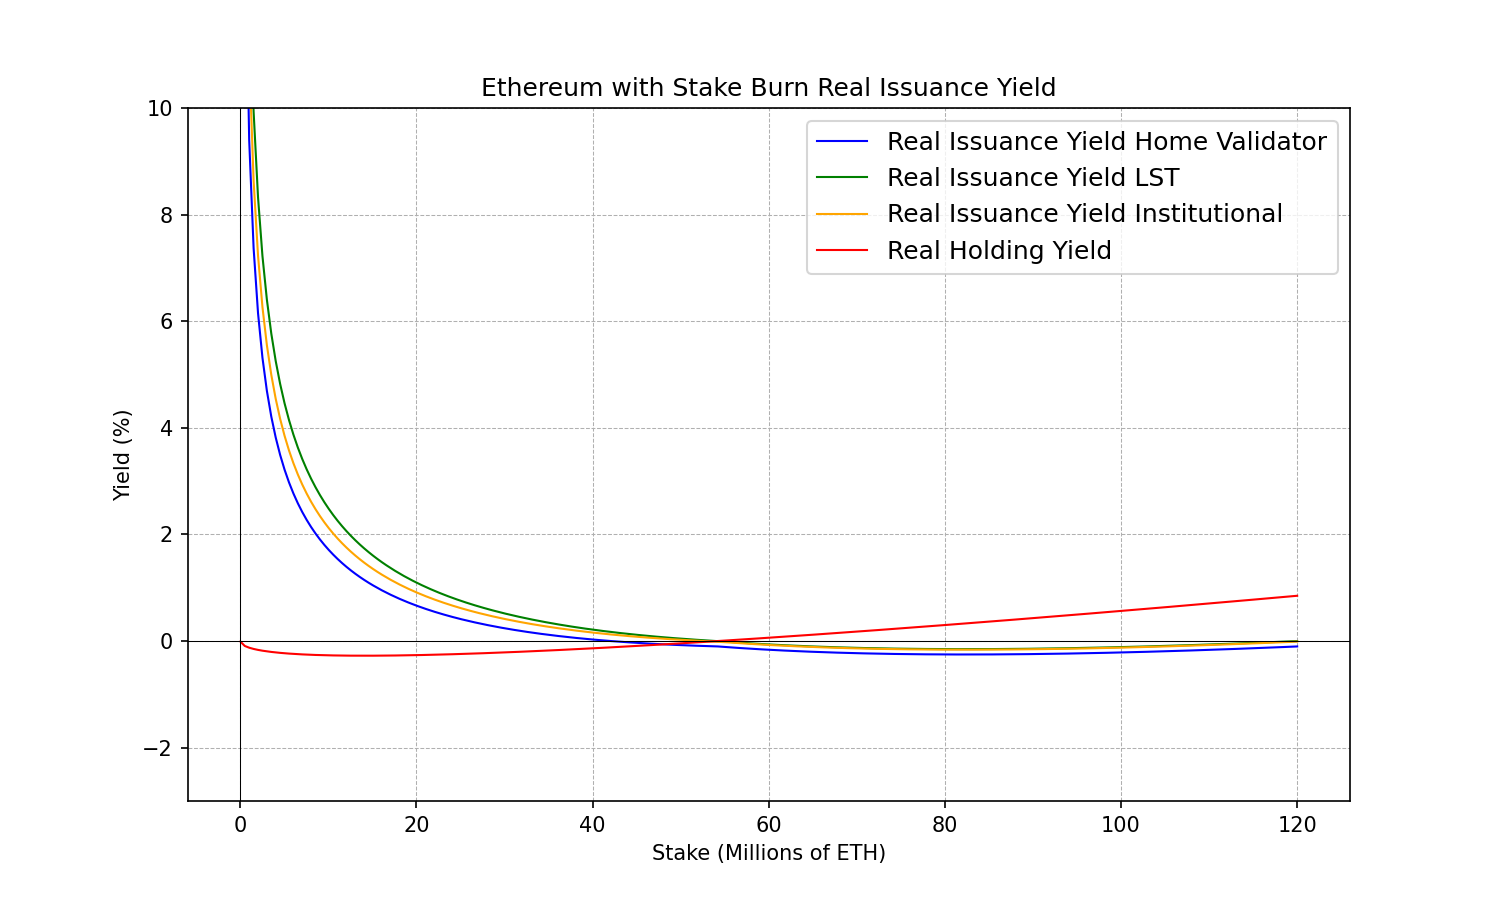
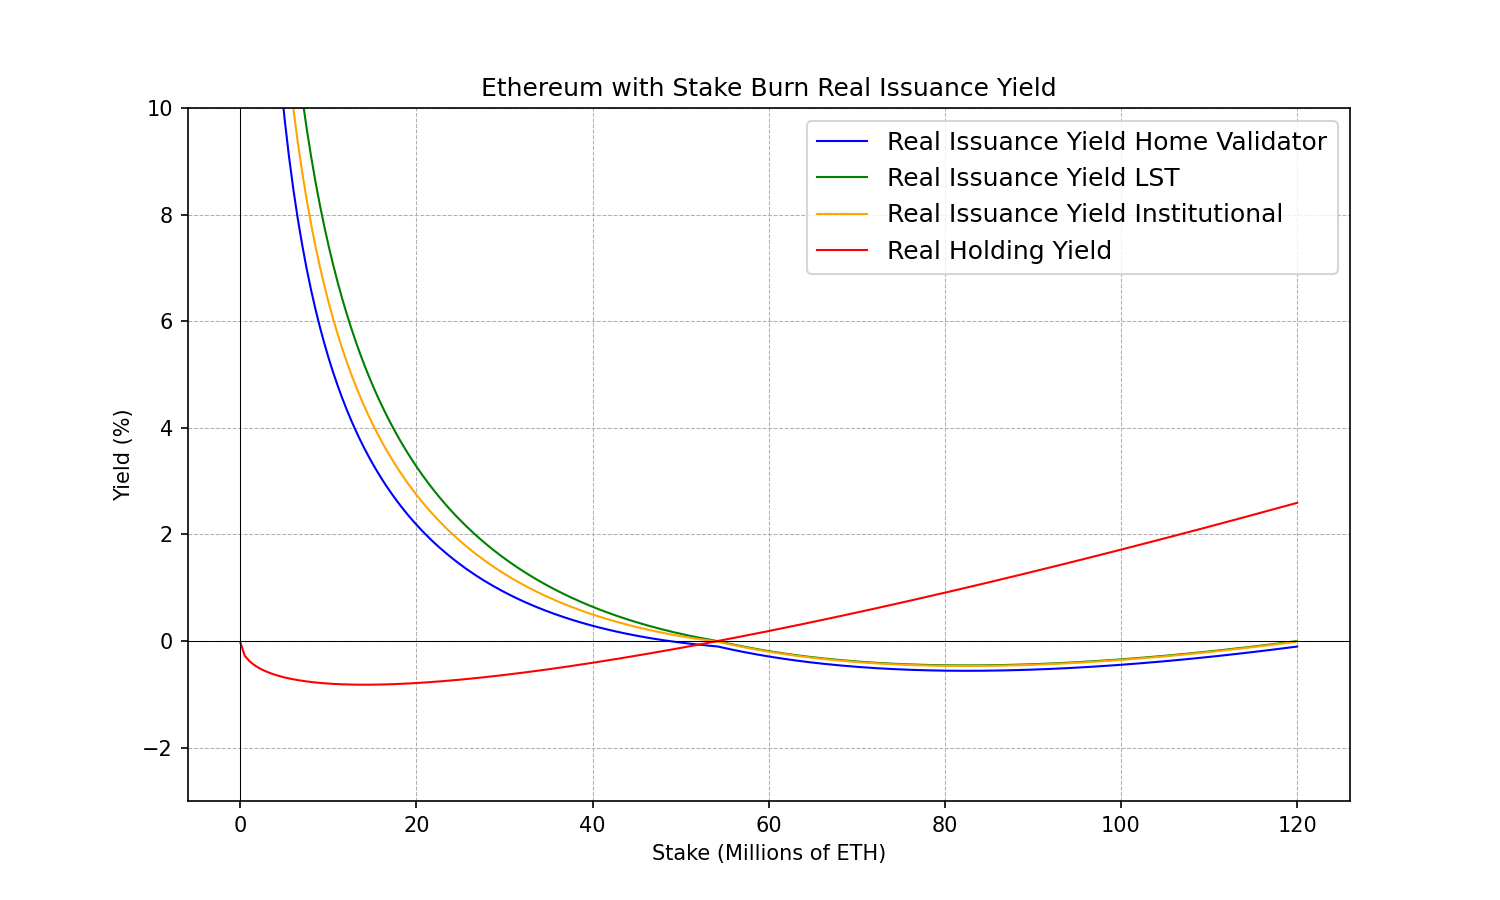
update real yield plot

diff --git a/plots/log_issuance_with_burn/real_yield_plot.py b/plots/log_issuance_with_burn/real_yield_plot.py
@@ -1,54 +1,8 @@
-import matplotlib
-matplotlib.use('TkAgg')
-import matplotlib.pyplot as plt
-from matplotlib.ticker import FuncFormatter
-import numpy as np
 from yield_curves import log_issuance_with_burn_yield
-from yields import real_issuance_yield, effective_holding_yield
-from common import CIRCULATING_SUPPLY, percentage_yield
-from cost_structure import home_staking, lst_staking, institutional_staking
-from plots.formatters import issuance_formatter, stake_formatter
+from plots.real_yield_plot import plot
+from common import CIRCULATING_SUPPLY
 
-x = np.linspace(3200, CIRCULATING_SUPPLY - 1_000_000, 240)
-
-
-real_staking_yield_solo = percentage_yield(real_issuance_yield(issuance_yield=log_issuance_with_burn_yield(x),
-                                                               supply=CIRCULATING_SUPPLY,
-                                                               staked=x,
-                                                               **home_staking))
-real_staking_yield_lst = percentage_yield(real_issuance_yield(issuance_yield=log_issuance_with_burn_yield(x),
-                                                              supply=CIRCULATING_SUPPLY,
-                                                              staked=x,
-                                                              **lst_staking))
-real_staking_yield_institutional = percentage_yield(
-    real_issuance_yield(issuance_yield=log_issuance_with_burn_yield(x),
-                        supply=CIRCULATING_SUPPLY,
-                        staked=x,
-                        **institutional_staking))
-
-real_holding_yield = percentage_yield(
-    effective_holding_yield(issuance_yield=log_issuance_with_burn_yield(x), supply=CIRCULATING_SUPPLY, staked=x))
-
-yield_delta = real_staking_yield_lst - real_holding_yield
-
-fig = plt.figure(figsize=(10, 6))
-
-plt.plot(x, real_staking_yield_solo, label="Real Yield Home Validator", color="blue", linewidth=1)
-plt.plot(x, real_staking_yield_lst, label="Real Yield LST", color="green", linewidth=1)
-plt.plot(x, real_staking_yield_institutional, label="Real Yield Institutional", color="orange", linewidth=1)
-plt.plot(x, real_holding_yield, label="Real Holding Yield", color="red", linewidth=1)
-plt.plot(x, yield_delta, label="(LST - Holding) Real Yield Delta", color="purple", linewidth=1, linestyle="--")
-
-# Add titles and labels
-plt.title("Log Issuance with Stake Burn Real Issuance Yield")
-
-plt.gca().xaxis.set_major_formatter(FuncFormatter(stake_formatter))
-plt.xlabel('Stake (Millions of ETH)')
-plt.ylabel('Yield (%)')
-plt.ylim(top=10, bottom=-3)
-plt.grid(True, which='both', linestyle='--', linewidth=0.5)
-plt.axhline(y=0, color='k', linewidth=0.5)
-plt.axvline(x=0, color='k', linewidth=0.5)
-plt.legend(fontsize=12)
-plt.show()
-fig.savefig('./ethereum_real_yield_with_burn_plot.png', dpi=fig.dpi)
+plot(log_issuance_with_burn_yield,
+     title="Log Issuance with Stake Burn",
+     circulating_supply=CIRCULATING_SUPPLY,
+     filename="ethereum_real_yield_with_burn_plot.png")

diff --git a/plots/vitaliks_issuance_curve/real_yield_plot.py b/plots/vitaliks_issuance_curve/real_yield_plot.py
@@ -1,54 +1,8 @@
-import matplotlib
-matplotlib.use('TkAgg')
-import matplotlib.pyplot as plt
-from matplotlib.ticker import FuncFormatter
-import numpy as np
 from yield_curves import vitaliks_issuance_yield
-from yields import real_issuance_yield, effective_holding_yield
-from common import CIRCULATING_SUPPLY, percentage_yield
-from cost_structure import home_staking, lst_staking, institutional_staking
-from plots.formatters import issuance_formatter, stake_formatter
+from plots.real_yield_plot import plot
+from common import CIRCULATING_SUPPLY
 
-x = np.linspace(3200, CIRCULATING_SUPPLY, 240)
-
-
-real_staking_yield_solo = percentage_yield(real_issuance_yield(issuance_yield=vitaliks_issuance_yield(x),
-                                                               supply=CIRCULATING_SUPPLY,
-                                                               staked=x,
-                                                               **home_staking))
-real_staking_yield_lst = percentage_yield(real_issuance_yield(issuance_yield=vitaliks_issuance_yield(x),
-                                                              supply=CIRCULATING_SUPPLY,
-                                                              staked=x,
-                                                              **lst_staking))
-real_staking_yield_institutional = percentage_yield(
-    real_issuance_yield(issuance_yield=vitaliks_issuance_yield(x),
-                        supply=CIRCULATING_SUPPLY,
-                        staked=x,
-                        **institutional_staking))
-
-real_holding_yield = percentage_yield(
-    effective_holding_yield(issuance_yield=vitaliks_issuance_yield(x), supply=CIRCULATING_SUPPLY, staked=x))
-
-yield_delta = real_staking_yield_lst - real_holding_yield
-
-fig = plt.figure(figsize=(10, 6))
-
-plt.plot(x, real_staking_yield_solo, label="Real Yield Home Validator", color="blue", linewidth=1)
-plt.plot(x, real_staking_yield_lst, label="Real Yield LST", color="green", linewidth=1)
-plt.plot(x, real_staking_yield_institutional, label="Real Yield Institutional", color="orange", linewidth=1)
-plt.plot(x, real_holding_yield, label="Real Holding Yield", color="red", linewidth=1)
-plt.plot(x, yield_delta, label="(LST - Holding) Real Yield Delta", color="purple", linewidth=1, linestyle="--")
-
-# Add titles and labels
-plt.title("Vitalik's Stake Capping Real Issuance Yield")
-
-plt.gca().xaxis.set_major_formatter(FuncFormatter(stake_formatter))
-plt.xlabel('Stake (Millions of ETH)')
-plt.ylabel('Yield (%)')
-plt.ylim(top=10, bottom=-3)
-plt.grid(True, which='both', linestyle='--', linewidth=0.5)
-plt.axhline(y=0, color='k', linewidth=0.5)
-plt.axvline(x=0, color='k', linewidth=0.5)
-plt.legend(fontsize=12)
-plt.show()
-fig.savefig('./vitalik_real_yield_plot.png', dpi=fig.dpi)
+plot(vitaliks_issuance_yield,
+     title="Vitalik's Stake Capping",
+     circulating_supply=CIRCULATING_SUPPLY,
+     filename="vitalik_real_yield_plot.png")

diff --git a/plots/ethereum_issuance/real_yield_plot.py b/plots/ethereum_issuance/real_yield_plot.py
@@ -1,54 +1,8 @@
-import matplotlib
-matplotlib.use('TkAgg')
-import matplotlib.pyplot as plt
-from matplotlib.ticker import FuncFormatter
-import numpy as np
 from yield_curves import ethereum_issuance_yield
-from yields import real_issuance_yield, effective_holding_yield
-from common import CIRCULATING_SUPPLY, percentage_yield
-from cost_structure import home_staking, lst_staking, institutional_staking
-from plots.formatters import issuance_formatter, stake_formatter
+from plots.real_yield_plot import plot
+from common import CIRCULATING_SUPPLY
 
-x = np.linspace(3200, CIRCULATING_SUPPLY, 240)
-
-
-real_staking_yield_solo = percentage_yield(real_issuance_yield(issuance_yield=ethereum_issuance_yield(x),
-                                                               supply=CIRCULATING_SUPPLY,
-                                                               staked=x,
-                                                               **home_staking))
-real_staking_yield_lst = percentage_yield(real_issuance_yield(issuance_yield=ethereum_issuance_yield(x),
-                                                              supply=CIRCULATING_SUPPLY,
-                                                              staked=x,
-                                                              **lst_staking))
-real_staking_yield_institutional = percentage_yield(
-    real_issuance_yield(issuance_yield=ethereum_issuance_yield(x),
-                        supply=CIRCULATING_SUPPLY,
-                        staked=x,
-                        **institutional_staking))
-
-real_holding_yield = percentage_yield(
-    effective_holding_yield(issuance_yield=ethereum_issuance_yield(x), supply=CIRCULATING_SUPPLY, staked=x))
-
-yield_delta = real_staking_yield_lst - real_holding_yield
-
-fig = plt.figure(figsize=(10, 6))
-
-plt.plot(x, real_staking_yield_solo, label="Real Yield Home Validator", color="blue", linewidth=1)
-plt.plot(x, real_staking_yield_lst, label="Real Yield LST", color="green", linewidth=1)
-plt.plot(x, real_staking_yield_institutional, label="Real Yield Institutional", color="orange", linewidth=1)
-plt.plot(x, real_holding_yield, label="Real Holding Yield", color="red", linewidth=1)
-plt.plot(x, yield_delta, label="(LST - Holding) Real Yield Delta", color="purple", linewidth=1, linestyle="--")
-
-# Add titles and labels
-plt.title("Ethereum Real Issuance Yield")
-
-plt.gca().xaxis.set_major_formatter(FuncFormatter(stake_formatter))
-plt.xlabel('Stake (Millions of ETH)')
-plt.ylabel('Yield (%)')
-plt.ylim(top=10, bottom=-3)
-plt.grid(True, which='both', linestyle='--', linewidth=0.5)
-plt.axhline(y=0, color='k', linewidth=0.5)
-plt.axvline(x=0, color='k', linewidth=0.5)
-plt.legend(fontsize=12)
-plt.show()
-fig.savefig('./ethereum_real_yield_plot.png', dpi=fig.dpi)
+plot(ethereum_issuance_yield,
+     title="Ethereum Issuance",
+     circulating_supply=CIRCULATING_SUPPLY,
+     filename="ethereum_real_yield_plot.png")

diff --git a/plots/tempered_issuance/real_yield_plot.py b/plots/tempered_issuance/real_yield_plot.py
@@ -1,54 +1,8 @@
-import matplotlib
-matplotlib.use('TkAgg')
-import matplotlib.pyplot as plt
-from matplotlib.ticker import FuncFormatter
-import numpy as np
 from yield_curves import tempered_issuance
-from yields import real_issuance_yield, effective_holding_yield
-from common import CIRCULATING_SUPPLY, percentage_yield
-from cost_structure import home_staking, lst_staking, institutional_staking
-from plots.formatters import issuance_formatter, stake_formatter
+from plots.real_yield_plot import plot
+from common import CIRCULATING_SUPPLY
 
-x = np.linspace(3200, CIRCULATING_SUPPLY, 240)
-
-
-real_staking_yield_solo = percentage_yield(real_issuance_yield(issuance_yield=tempered_issuance(x),
-                                                               supply=CIRCULATING_SUPPLY,
-                                                               staked=x,
-                                                               **home_staking))
-real_staking_yield_lst = percentage_yield(real_issuance_yield(issuance_yield=tempered_issuance(x),
-                                                              supply=CIRCULATING_SUPPLY,
-                                                              staked=x,
-                                                              **lst_staking))
-real_staking_yield_institutional = percentage_yield(
-    real_issuance_yield(issuance_yield=tempered_issuance(x),
-                        supply=CIRCULATING_SUPPLY,
-                        staked=x,
-                        **institutional_staking))
-
-real_holding_yield = percentage_yield(
-    effective_holding_yield(issuance_yield=tempered_issuance(x), supply=CIRCULATING_SUPPLY, staked=x))
-
-yield_delta = real_staking_yield_lst - real_holding_yield
-
-fig = plt.figure(figsize=(10, 6))
-
-plt.plot(x, real_staking_yield_solo, label="Real Yield Home Validator", color="blue", linewidth=1)
-plt.plot(x, real_staking_yield_lst, label="Real Yield LST", color="green", linewidth=1)
-plt.plot(x, real_staking_yield_institutional, label="Real Yield Institutional", color="orange", linewidth=1)
-plt.plot(x, real_holding_yield, label="Real Holding Yield", color="red", linewidth=1)
-plt.plot(x, yield_delta, label="(LST - Holding) Real Yield Delta", color="purple", linewidth=1, linestyle="--")
-
-# Add titles and labels
-plt.title("Tempered Issuance Real Yield")
-
-plt.gca().xaxis.set_major_formatter(FuncFormatter(stake_formatter))
-plt.xlabel('Stake (Millions of ETH)')
-plt.ylabel('Yield (%)')
-plt.ylim(top=10, bottom=-3)
-plt.grid(True, which='both', linestyle='--', linewidth=0.5)
-plt.axhline(y=0, color='k', linewidth=0.5)
-plt.axvline(x=0, color='k', linewidth=0.5)
-plt.legend(fontsize=12)
-plt.show()
-fig.savefig('./tempered_issuance_real_yield_plot.png', dpi=fig.dpi)
+plot(tempered_issuance,
+     title="Tempered Issuance",
+     circulating_supply=CIRCULATING_SUPPLY,
+     filename="tempered_issuance_real_yield_plot.png")

diff --git a/plots/ethereum_issuance_with_stake_burn_adjusted/real_yield_plot.py b/plots/ethereum_issuance_with_stake_burn_adjusted/real_yield_plot.py
@@ -1,65 +1,8 @@
-import matplotlib
-matplotlib.use('TkAgg')
-import matplotlib.pyplot as plt
-from matplotlib.ticker import FuncFormatter
-import numpy as np
 from yield_curves import ethereum_issuance_with_burn_yield_adjusted
-from yields import real_issuance_yield, effective_holding_yield
-from common import CIRCULATING_SUPPLY, percentage_yield
-from plots.formatters import issuance_formatter, stake_formatter
+from plots.real_yield_plot import plot
+from common import CIRCULATING_SUPPLY
 
-x = np.linspace(3200, CIRCULATING_SUPPLY, 240)
-
-
-real_staking_yield_solo = percentage_yield(
-    real_issuance_yield(
-        issuance_yield=ethereum_issuance_with_burn_yield_adjusted(x),
-        supply=CIRCULATING_SUPPLY,
-        staked=x,
-        fixed_costs=1 / 1000,
-        scaling_costs=0.35))
-real_staking_yield_lst = percentage_yield(
-    real_issuance_yield(
-        issuance_yield=ethereum_issuance_with_burn_yield_adjusted(x),
-        supply=CIRCULATING_SUPPLY,
-        staked=x,
-        fixed_costs=0.,
-        scaling_costs=0.14))
-real_staking_yield_institutional = percentage_yield(
-    real_issuance_yield(
-        issuance_yield=ethereum_issuance_with_burn_yield_adjusted(x),
-        supply=CIRCULATING_SUPPLY,
-        staked=x,
-        fixed_costs=1 / 10000,
-        scaling_costs=0.25))
-
-real_holding_yield = percentage_yield(
-    effective_holding_yield(
-        issuance_yield=ethereum_issuance_with_burn_yield_adjusted(x),
-        supply=CIRCULATING_SUPPLY,
-        staked=x))
-
-yield_delta = real_staking_yield_lst - real_holding_yield
-
-
-fig = plt.figure(figsize=(10, 6))
-
-plt.plot(x, real_staking_yield_solo, label="Real Issuance Yield Home Validator", color="blue", linewidth=1)
-plt.plot(x, real_staking_yield_lst, label="Real Issuance Yield LST", color="green", linewidth=1)
-plt.plot(x, real_staking_yield_institutional, label="Real Issuance Yield Institutional", color="orange", linewidth=1)
-plt.plot(x, real_holding_yield, label="Real Holding Yield", color="red", linewidth=1)
-plt.plot(x, yield_delta, label="(LST - Holding) Real Yield Delta", color="purple", linewidth=1, linestyle="--")
-
-# Add titles and labels
-plt.title("Ethereum with Stake Burn Real Issuance Yield")
-
-plt.gca().xaxis.set_major_formatter(FuncFormatter(stake_formatter))
-plt.xlabel('Stake (Millions of ETH)')
-plt.ylabel('Yield (%)')
-plt.ylim(top=10, bottom=-3)
-plt.grid(True, which='both', linestyle='--', linewidth=0.5)
-plt.axhline(y=0, color='k', linewidth=0.5)
-plt.axvline(x=0, color='k', linewidth=0.5)
-plt.legend(fontsize=12)
-plt.show()
-fig.savefig('./ethereum_real_yield_with_burn_plot.png', dpi=fig.dpi)
+plot(ethereum_issuance_with_burn_yield_adjusted,
+     title="Ethereum with Stake Burn Real Issuance Yield",
+     circulating_supply=CIRCULATING_SUPPLY,
+     filename="ethereum_real_yield_with_burn_plot.png")

diff --git a/plots/ethereum_issuance_with_stake_burn/real_yield_plot.py b/plots/ethereum_issuance_with_stake_burn/real_yield_plot.py
@@ -1,61 +1,8 @@
-import matplotlib
-matplotlib.use('TkAgg')
-import matplotlib.pyplot as plt
-from matplotlib.ticker import FuncFormatter
-import numpy as np
 from yield_curves import ethereum_issuance_with_burn_yield
-from yields import real_issuance_yield, effective_holding_yield
-from common import CIRCULATING_SUPPLY, percentage_yield
-from plots.formatters import issuance_formatter, stake_formatter
+from plots.real_yield_plot import plot
+from common import CIRCULATING_SUPPLY
 
-x = np.linspace(3200, CIRCULATING_SUPPLY, 240)
-
-
-real_staking_yield_solo = percentage_yield(
-    real_issuance_yield(
-        issuance_yield=ethereum_issuance_with_burn_yield(x),
-        supply=CIRCULATING_SUPPLY,
-        staked=x,
-        fixed_costs=1 / 1000,
-        scaling_costs=0.35))
-real_staking_yield_lst = percentage_yield(
-    real_issuance_yield(
-        issuance_yield=ethereum_issuance_with_burn_yield(x),
-        supply=CIRCULATING_SUPPLY,
-        staked=x,
-        fixed_costs=0.,
-        scaling_costs=0.14))
-real_staking_yield_institutional = percentage_yield(
-    real_issuance_yield(
-        issuance_yield=ethereum_issuance_with_burn_yield(x),
-        supply=CIRCULATING_SUPPLY,
-        staked=x,
-        fixed_costs=1 / 10000,
-        scaling_costs=0.25))
-
-real_holding_yield = percentage_yield(
-    effective_holding_yield(
-        issuance_yield=ethereum_issuance_with_burn_yield(x),
-        supply=CIRCULATING_SUPPLY,
-        staked=x))
-
-fig = plt.figure(figsize=(10, 6))
-
-plt.plot(x, real_staking_yield_solo, label="Real Issuance Yield Home Validator", color="blue", linewidth=1)
-plt.plot(x, real_staking_yield_lst, label="Real Issuance Yield LST", color="green", linewidth=1)
-plt.plot(x, real_staking_yield_institutional, label="Real Issuance Yield Institutional", color="orange", linewidth=1)
-plt.plot(x, real_holding_yield, label="Real Holding Yield", color="red", linewidth=1)
-
-# Add titles and labels
-plt.title("Ethereum with Stake Burn Real Issuance Yield")
-
-plt.gca().xaxis.set_major_formatter(FuncFormatter(stake_formatter))
-plt.xlabel('Stake (Millions of ETH)')
-plt.ylabel('Yield (%)')
-plt.ylim(top=10, bottom=-3)
-plt.grid(True, which='both', linestyle='--', linewidth=0.5)
-plt.axhline(y=0, color='k', linewidth=0.5)
-plt.axvline(x=0, color='k', linewidth=0.5)
-plt.legend(fontsize=12)
-plt.show()
-fig.savefig('./ethereum_real_yield_with_burn_plot.png', dpi=fig.dpi)
+plot(ethereum_issuance_with_burn_yield,
+     title="Ethereum Issuance with Burn (Unadjusted Curve)",
+     circulating_supply=CIRCULATING_SUPPLY,
+     filename="ethereum_real_yield_with_burn_plot.png")
